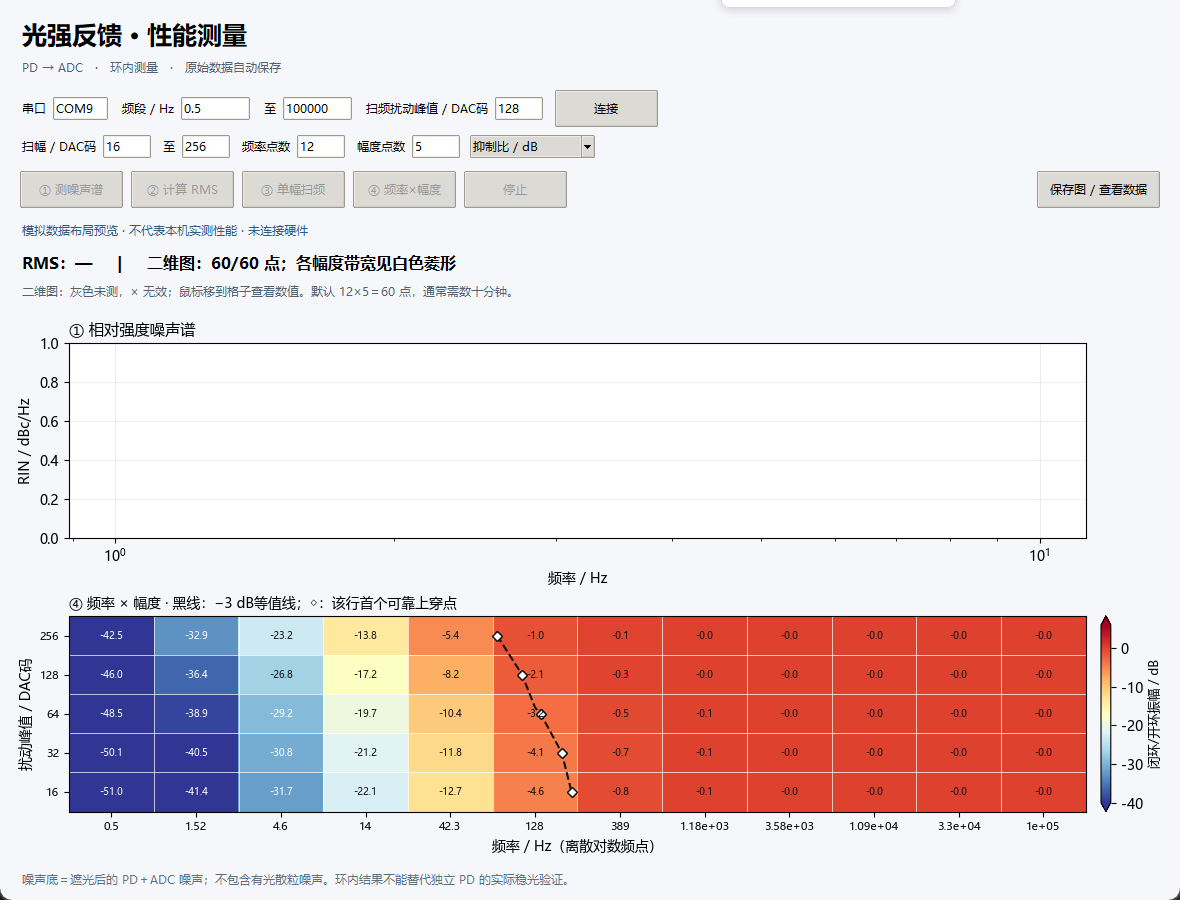
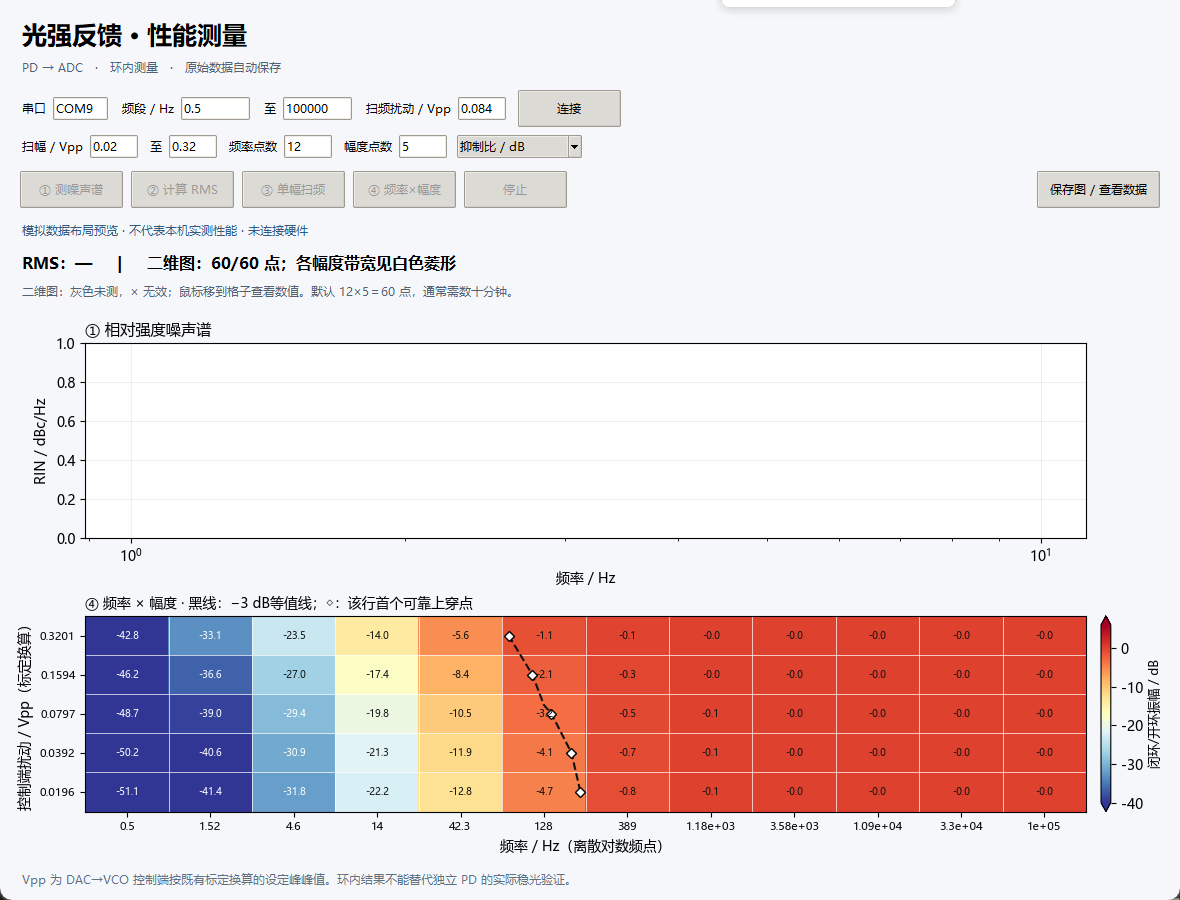
Use calibrated control-voltage Vpp throughout sweep and heatmap UI

diff --git a/pid_performance/host/performance/app.py b/pid_performance/host/performance/app.py
@@ -16,6 +16,7 @@ sys.path.insert(0,str(BASE.parent/'vendor'))
 from device import Device
 from measurement import Measurement
 from heatmap import draw_map
+from voltage import vpp_to_codes,codes_to_vpp
 
 matplotlib.rcParams['font.sans-serif']=['Microsoft YaHei','SimHei','DejaVu Sans']
 matplotlib.rcParams['axes.unicode_minus']=False
@@ -55,15 +56,15 @@ class App:
         ttk.Label(top,text='光强反馈 · 性能测量',font=('Microsoft YaHei',19,'bold')).pack(anchor='w')
         ttk.Label(top,text='PD → ADC   ·   环内测量   ·   原始数据自动保存',foreground='#526174').pack(anchor='w',pady=(4,12))
         row=ttk.Frame(top);row.pack(fill='x')
-        self.port=tk.StringVar(value='COM9');self.low=tk.StringVar(value='0.5');self.high=tk.StringVar(value='100000');self.amp=tk.StringVar(value='128')
-        for label,var,width in [('串口',self.port,7),('频段 / Hz',self.low,9),('至',self.high,9),('扫频扰动峰值 / DAC码',self.amp,6)]:
+        self.port=tk.StringVar(value='COM9');self.low=tk.StringVar(value='0.5');self.high=tk.StringVar(value='100000');self.amp=tk.StringVar(value='0.084')
+        for label,var,width in [('串口',self.port,7),('频段 / Hz',self.low,9),('至',self.high,9),('扫频扰动 / Vpp',self.amp,6)]:
             ttk.Label(row,text=label).pack(side='left',padx=(0,5))
             ttk.Entry(row,textvariable=var,width=width).pack(side='left',padx=(0,12))
         self.connect=ttk.Button(row,text='连接',command=self.connect_device);self.connect.pack(side='left')
         gridrow=ttk.Frame(top);gridrow.pack(fill='x',pady=(8,0))
-        self.amp_low=tk.StringVar(value='16');self.amp_high=tk.StringVar(value='256')
+        self.amp_low=tk.StringVar(value='0.02');self.amp_high=tk.StringVar(value='0.32')
         self.freq_points=tk.StringVar(value='12');self.amp_points=tk.StringVar(value='5')
-        for label,var in [('扫幅 / DAC码',self.amp_low),('至',self.amp_high),('频率点数',self.freq_points),('幅度点数',self.amp_points)]:
+        for label,var in [('扫幅 / Vpp',self.amp_low),('至',self.amp_high),('频率点数',self.freq_points),('幅度点数',self.amp_points)]:
             ttk.Label(gridrow,text=label).pack(side='left',padx=(0,5))
             ttk.Entry(gridrow,textvariable=var,width=6).pack(side='left',padx=(0,10))
         self.map_metric=tk.StringVar(value='抑制比 / dB')
@@ -87,7 +88,7 @@ class App:
         self.canvas.get_tk_widget().pack(fill='both',expand=True,padx=14)
         self.canvas.widget.bind('<Motion>',self.hover_grid)
         self.reset_axes()
-        ttk.Label(root,text='噪声底＝遮光后的 PD＋ADC 噪声；不包含有光散粒噪声。环内结果不能替代独立 PD 的实际稳光验证。',
+        ttk.Label(root,text='Vpp 为 DAC→VCO 控制端按既有标定换算的设定峰峰值。环内结果不能替代独立 PD 的实际稳光验证。',
                   padding=(20,10),foreground='#607080').pack(fill='x')
         self.rms_text='RMS：—';self.bw_text='3 dB 噪声抑制带宽：—'
         root.protocol('WM_DELETE_WINDOW',self.close);root.after(100,self.poll)
@@ -163,7 +164,7 @@ class App:
         except Exception as e:messagebox.showerror('RMS',str(e))
 
     def sweep(self):
-        try:low,high=self.settings();amp=int(self.amp.get());points=int(self.freq_points.get())
+        try:low,high=self.settings();amp=vpp_to_codes(self.amp.get());points=int(self.freq_points.get())
         except Exception as e:messagebox.showerror('扫频设置',str(e));return
         def work():
             self.measure.sweep(low,high,amp,points)
@@ -173,7 +174,7 @@ class App:
     def grid(self):
         try:
             low,high=self.settings(True)
-            amin,amax=int(self.amp_low.get()),int(self.amp_high.get())
+            amin,amax=vpp_to_codes(self.amp_low.get()),vpp_to_codes(self.amp_high.get())
             nf,na=int(self.freq_points.get()),int(self.amp_points.get())
         except Exception as e:messagebox.showerror('二维扫描设置',str(e));return
         def work():
@@ -199,7 +200,7 @@ class App:
         d=self.map_data;nf=len(d['frequencies_Hz']);na=len(d['amplitudes_DAC_codes'])
         if not (-.5<x<nf-.5 and -.5<y<na-.5):return
         j,i=int(round(x)),int(round(y))
-        prefix=f"{d['frequencies_Hz'][j]:.4g} Hz · {d['amplitudes_DAC_codes'][i]} DAC码"
+        prefix=f"{d['frequencies_Hz'][j]:.4g} Hz · {codes_to_vpp(d['amplitudes_DAC_codes'][i]):.5g} Vpp"
         r=next((r for r in d['rows'] if r['amplitude_index']==i and r['frequency_index']==j),None)
         if r is None:self.cell_text.set(prefix+' · 未完成测量');return
         def fmt(value):return '未测/不可用' if value is None else f'{value:.4g}'

diff --git a/pid_performance/host/performance/measurement.py b/pid_performance/host/performance/measurement.py
@@ -1,5 +1,6 @@
 import csv,json,time
 from dataclasses import asdict
+from voltage import codes_to_vpp,CALIBRATION
 from pathlib import Path
 import numpy as np
 from analysis import spectrum,relative_density,band_rms,tone,rejection,crossing,cic_response
@@ -31,7 +32,7 @@ class Measurement:
         self.stage='';self.dark_preview=[];self.dark_mean=None
         self.folder.mkdir(parents=True,exist_ok=True)
         save_json(self.folder/'session.json',dict(registers=dev.snapshot,raw_sample_rate_Hz=dev.raw_fs,
-            detector='in-loop feedback ADC',created=time.strftime('%Y-%m-%dT%H:%M:%S%z'),
+            voltage_calibration=CALIBRATION,detector='in-loop feedback ADC',created=time.strftime('%Y-%m-%dT%H:%M:%S%z'),
             noise_floor='dark PD + ADC; excludes illuminated shot noise',
             spectral_method='one-sided Welch, Hann, 2048 samples, 50% overlap, per-segment DC removal',
             decimator='CIC3; passband correction; retained frequencies <= output_fs/10',
@@ -159,7 +160,7 @@ class Measurement:
             value=rejection(ta,tb)
             # Drift relative to optical DC uses dark estimate when available;
             # otherwise report code means for review instead of guessing offset.
-            row=dict(frequency_Hz=freq,requested_Hz=float(requested),amplitude_DAC_codes=amp,
+            row=dict(frequency_Hz=freq,requested_Hz=float(requested),amplitude_DAC_codes=amp,amplitude_Vpp=codes_to_vpp(amp),
                 open_amplitude_ADC_codes=ta['amplitude'],closed_amplitude_ADC_codes=tb['amplitude'],
                 open_mean_ADC_codes=ta['mean'],closed_mean_ADC_codes=tb['mean'],
                 open_sigma=ta['sigma'],closed_sigma=tb['sigma'],**value)
@@ -191,13 +192,14 @@ class Measurement:
         if not (0<low<=high<=self.dev.raw_fs/20) or (freq_points==1)!=(low==high):
             raise ValueError('单频扫幅请将频率上下限设为相同值、频率点数设为 1')
         if not (1<=amp_low<=amp_high<=16383) or (amp_points==1)!=(amp_low==amp_high):
-            raise ValueError('幅度范围为 1–16383；单幅时上下限相同、幅度点数为 1')
+            raise ValueError('扰动电压范围无效；单幅时上下限相同、幅度点数为 1')
         amps=np.unique(np.rint(np.geomspace(amp_low,amp_high,amp_points)).astype(int))
-        if len(amps)!=amp_points:raise ValueError('幅度范围太窄，取整后频点重复，请减少幅度点数')
+        if len(amps)!=amp_points:raise ValueError('幅度范围小于电压分辨率，取整后重复，请减少幅度点数')
         frequencies=np.geomspace(low,high,freq_points)
         parent=self.folder;notify=self.notify
         folder=parent/('grid_'+str(time.time_ns()));folder.mkdir()
         data=dict(frequencies_Hz=frequencies.tolist(),amplitudes_DAC_codes=amps.tolist(),
+                  amplitudes_Vpp=[codes_to_vpp(a) for a in amps],voltage_calibration=CALIBRATION,
                   rows=[],bandwidths_Hz=[None]*len(amps),status='running',run_directory=folder.name,
                   dark_mean_ADC_codes=self.dark_mean,
                   definition='20 log10(closed/open fundamental amplitude); percent = peak tone / dark-subtracted DC',
@@ -223,7 +225,7 @@ class Measurement:
                                               for i,r in enumerate(payload['rows'])]
                         data['bandwidths_Hz'][ai]=payload['bandwidth_Hz'];flush()
                     elif kind=='status':
-                        notify(kind,f'二维扫描 {len(completed)+row_count+1}/{len(amps)*freq_points} · {int(amp)} DAC码 · '+payload)
+                        notify(kind,f'二维扫描 {len(completed)+row_count+1}/{len(amps)*freq_points} · {codes_to_vpp(amp):.5g} Vpp · '+payload)
                     else:notify(kind,payload)
                 self.notify=relay
                 self.sweep(low,high,int(amp),freq_points)

diff --git a/pid_performance/host/performance/heatmap.py b/pid_performance/host/performance/heatmap.py
@@ -1,5 +1,6 @@
 """Discrete measured-cell plot. Missing values never interpolated into colors."""
 import numpy as np
+from voltage import codes_to_vpp
 from matplotlib.colors import Normalize,LogNorm
 
 
@@ -45,10 +46,10 @@ def draw_map(fig,ax,data,percent=False):
         c=data['interrupted_cell'];ax.text(c['frequency_index'],c['amplitude_index'],'×',ha='center',va='center')
     stride=max(1,int(np.ceil(nf/16)));ticks=list(range(0,nf,stride))
     ax.set_xticks(ticks,[f'{f[i]:.3g}' for i in ticks],fontsize=8)
-    ax.set_yticks(range(na),[str(a) for a in data['amplitudes_DAC_codes']],fontsize=8)
+    ax.set_yticks(range(na),[f'{codes_to_vpp(a):.4g}' for a in data['amplitudes_DAC_codes']],fontsize=8)
     ax.set_xticks(np.arange(-.5,nf,1),minor=True);ax.set_yticks(np.arange(-.5,na,1),minor=True)
     ax.grid(which='minor',color='white',linewidth=.5);ax.tick_params(which='minor',length=0)
-    ax.set_xlabel('频率 / Hz（离散对数频点）');ax.set_ylabel('扰动峰值 / DAC码')
+    ax.set_xlabel('频率 / Hz（离散对数频点）');ax.set_ylabel('控制端扰动 / Vpp（标定换算）')
     label='闭环残余基频峰值 / %' if percent else '闭环/开环振幅 / dB'
     ax.set_title('④ 频率 × 幅度 · 黑线：−3 dB等值线；◇：该行首个可靠上穿点',loc='left',fontsize=10)
     if percent and not np.isfinite(values).any():

diff --git a/pid_performance/host/performance/voltage.py b/pid_performance/host/performance/voltage.py
@@ -1,0 +1,21 @@
+"""DAC control-port nominal sine Vpp from the existing 2026-10-22 DC calibration."""
+import math
+
+VOLTS_PER_CODE=0.0006533
+CALIBRATION=dict(volts_per_code=VOLTS_PER_CODE,zero_code=8198,date='2026-10-22',
+    source='soyotoanon/20261022-vco-mapping-verification README: two-point DMM DC calibration',
+    node='DAC output / VCO analog control input',
+    meaning='nominal set Vpp from DC calibration, not an AC voltage measurement; includes integer-code rounding')
+
+
+def codes_to_vpp(peak_codes):
+    return 2*VOLTS_PER_CODE*int(peak_codes)
+
+
+def vpp_to_codes(vpp):
+    value=float(vpp)
+    if not math.isfinite(value) or not VOLTS_PER_CODE<=value<=codes_to_vpp(16383):
+        raise ValueError('扰动 Vpp 超出可设置范围')
+    code=int(math.floor(value/(2*VOLTS_PER_CODE)+.5))
+    if not 1<=code<=16383:raise ValueError('扰动小于电压分辨率')
+    return code

diff --git a/pid_performance/host/performance/test_voltage.py b/pid_performance/host/performance/test_voltage.py
@@ -1,0 +1,16 @@
+import unittest
+from voltage import vpp_to_codes,codes_to_vpp
+
+
+class VoltageTests(unittest.TestCase):
+    def test_peak_to_peak_and_integer_rounding(self):
+        self.assertAlmostEqual(codes_to_vpp(64),.0836224)
+        self.assertEqual(vpp_to_codes(.084),64)
+        for vpp in [.02,.04,.08,.16,.32]:
+            self.assertLessEqual(abs(codes_to_vpp(vpp_to_codes(vpp))-vpp),.0006533)
+
+    def test_invalid_values_do_not_create_an_injection(self):
+        for value in [0,-1,float('nan'),float('inf'),30,.00001]:
+            with self.assertRaises(ValueError):vpp_to_codes(value)
+
+if __name__=='__main__':unittest.main()

diff --git a/pid_performance/host/performance/test_grid.py b/pid_performance/host/performance/test_grid.py
@@ -14,6 +14,8 @@ class GridTests(unittest.TestCase):
             m.dark_mean=8192
             d=m.grid(20,1000,32,64,4,2)
             self.assertEqual(d['status'],'complete');self.assertEqual(len(d['rows']),8)
+            self.assertEqual(d['amplitudes_Vpp'],[.0418112,.0836224])
+            self.assertAlmostEqual(d['rows'][0]['amplitude_Vpp'],.0418112)
             self.assertTrue(all(b is not None for b in d['bandwidths_Hz']))
             db,pct=matrices(d);self.assertEqual(db.shape,(2,4))
             self.assertTrue(np.isfinite(pct).all())

diff --git a/pid_performance/README.md b/pid_performance/README.md
@@ -9,22 +9,28 @@
 1. 在当前光强下使闭环稳定。点击「连接」。目标和增益仍可通过原 UART 寄存器在线修改，不需要重新烧录。
 2. 「① 测噪声谱」：先按提示遮住 PD 入光，测暗场噪声底，再恢复入光。程序在保持当前输出的开环与正常闭环之间切换，逐段更新三条噪声谱。不要切断 PD 电源或拔线来代替遮光。
 3. 「② 计算 RMS」：对输入频段内的单边 RIN 积分，显示开闭环相对 RMS。默认 0.5 Hz–100 kHz；论文必须同时注明积分频段。
-4. 「③ 测抑制带宽」：默认 10 个对数频点。在 PI 输出之后、最终限幅之前加同样的正弦扰动，分别测开闭环响应振幅，实时更新比值。默认振幅 128 DAC 码。若转折落在两个相距较远的频点之间，缩小频率范围重测；粗扫插值不能当作精密带宽。
+4. 「③ 单幅扫频」：默认 12 个对数频点。在 PI 输出之后、最终限幅之前加同样的正弦扰动，分别测开闭环响应振幅，实时更新比值。默认扰动 0.084 Vpp。若转折落在两个相距较远的频点之间，缩小频率范围重测；粗扫插值不能当作精密带宽。
 5. 原始记录、参数和 CSV/JSON 自动保存在 `measurements/日期时间/`；「保存图 / 查看数据」另存 PNG、PDF 并打开目录。每次重新测量会追加原始记录并更新本次汇总 CSV；要保留独立汇总，请重新打开界面建立新会话。
 
 暗场阶段每读完一段即显示 ADC码²/Hz 的噪声谱；这时尚未获得配对的带光均值，因此不标成 RIN。采集时显示倒计时和段数，期间保持完全遮光，直到「恢复光照」提示。暗场记录出现明显跳变或各段均值相差超过 10 ADC 码会停止计算，原始数据仍保存。这是异常筛查，不能代替确认 PD 确实完全遮光。
 
-「扫频扰动峰值 / DAC码」只影响第③步，128 表示在当前输出上叠加约 ±128 码的正弦，峰峰值约 256 码，不表示光强变化 128%。选幅度时先用 64 码（本工作点的 20 Hz 已可靠检出），再用 32 码重复同一频点或频段；只要都能分辨且抑制比在测量不确定度内一致，就有小信号线性的证据。过小而不可检出时才逐步增加；出现限幅、波形失真或抑制比随幅度改变，则不能将其混成一个与幅度无关的带宽。实际相对光强扰动应由开环正弦 ADC 振幅除以扣除暗场后的平均 ADC 信号计算。
+「扫频扰动 / Vpp」用于第③步的单幅扫频，表示 DAC 输出到 VCO 模拟控制端的正弦峰峰值。选幅度时可先用约 0.084 Vpp，再用约 0.042 Vpp 重复同一频段；只要都能分辨且抑制比在测量不确定度内一致，就有小信号线性的证据。过小而不可检出时才逐步增加；出现限幅或抑制比随幅度改变，则不能将其混成一个与幅度无关的带宽。实际相对光强扰动由开环正弦 ADC 振幅除以扣除暗场后的平均 ADC 信号计算。
 
 采集在 FPGA 中定时完成，每段 8192 点；115200 串口只传输已经采好的缓存。读回一段约需数十秒，低频采集另需约 27 秒，完整多频段噪声测量需要数分钟。实时显示是逐段/逐频点更新，不是连续视频式刷新。
 
+## 扰动电压换算
+
+界面输入、热图纵轴、悬停提示统一使用 Vpp；内部码值只保留在原始数据中用于复现。采用原仓库 2026-10-22 已记录的万用表直流两点标定：V=0.0006533×(code−8198)。正弦峰峰值换算为 Vpp=2×0.0006533×峰值码；64 码对应 0.0836224 Vpp。零点不影响峰峰值。输入值会取整为硬件可实现的设定，显示和 CSV 的 amplitude_Vpp 使用取整后的值，最小幅度步进约 0.0013066 Vpp。
+
+来源：[原仓库标定记录](https://github.com/soyotoanon/20261022-vco-mapping-verification/blob/102e8e9d3b896aec625270f646f107e312208e29/README.md)。这是基于既有直流标定的设定电压换算，尚未用示波器逐频率测量交流幅度，亦未补偿外部模拟链的频响；正弦数字量化还可能引入约一 LSB 的峰峰值差异。session.json 和 grid.json 保存标定来源、斜率和定义。
+
 ## 频率 × 扰动幅度热力图
 
-新增「④ 频率×幅度」：频率使用上面的上下限；新增扫幅上下限（DAC 正弦峰值码）、频率点数和幅度点数。默认 12×5＝60 点、幅度 16/32/64/128/256 码，逐幅度、逐频率测量。两轴按对数间隔选点，幅度取整数；每格分别采开环和闭环，因此通常需要数十分钟。可设置 1–64 个频点、1–16 个幅度；单频扫幅将频率上下限设成相同值并将频率点数设为 1。单幅扫描也可将幅度上下限设为相同值、幅度点数设为 1。③ 单幅扫频也使用新的频率点数设置。
+新增「④ 频率×幅度」：频率使用上面的上下限；新增扫幅上下限（控制端正弦 Vpp）、频率点数和幅度点数。默认 12×5＝60 点、幅度范围 0.02–0.32 Vpp，逐幅度、逐频率测量。两轴按对数间隔选点，程序自动量化到可输出的电压步进；每格分别采开环和闭环，因此通常需要数十分钟。可设置 1–64 个频点、1–16 个幅度；单频扫幅将频率上下限设成相同值并将频率点数设为 1。单幅扫描也可将幅度上下限设为相同值、幅度点数设为 1。③ 单幅扫频也使用新的频率点数设置。
 
 热力图是离散测量格子，不填充未测数据。默认颜色为 20log10(闭环基频振幅/开环基频振幅)，负值表示抑制，正值表示放大。灰格为未测或无可用结果，× 表示检出不足或故障中断点。鼠标移到格子显示数值；不超过 144 格时也在格内标数值。限幅、传输失败等会停止扫描，而不会给剩余格子填假数据。
 
-下拉框可切换为「残余基频 / %」：闭环正弦基频峰值除以扣除暗场后的闭环平均光信号，乘 100。这要求在同一会话先完成可靠的噪声测量，保持光路和 PD 增益不变；没有有效暗场就留空。它不是总噪声 RMS，也不包括所有高次谐波；正弦振幅已补偿 CIC 抽取通带衰减。鼠标提示还会显示开环实际相对调制幅度。纵轴始终是实际施加的 DAC 峰值码，不能当作预设的光强百分比。
+下拉框可切换为「残余基频 / %」：闭环正弦基频峰值除以扣除暗场后的闭环平均光信号，乘 100。这要求在同一会话先完成可靠的噪声测量，保持光路和 PD 增益不变；没有有效暗场就留空。它不是总噪声 RMS，也不包括所有高次谐波；正弦振幅已补偿 CIC 抽取通带衰减。鼠标提示还会显示开环实际相对调制幅度。纵轴为按既有标定换算的控制端设定 Vpp，不能当作光强百分比或 VCO 射频输出的 Vpp。
 
 黑线是基于相邻有效格子插值的 −3 dB 等值线，两种颜色模式都使用同一条抑制比边界。白色菱形是该幅度行从低频开始首次可靠向上穿过 −3 dB 的频率；没有可靠交点则不输出带宽。边界可能不唯一、有闭合区域，也可能在测量范围内完全不存在。在小信号范围，各行交点应近似一致；幅度相关非线性下应报告各幅度条件下的边界，不把它们压成一个唯一的线性带宽。−3 dB 表示振幅比约 0.708，不表示残余波动小于 3% 或 1%。
 

diff --git a/pid_performance/validation/README.md b/pid_performance/validation/README.md
@@ -33,3 +33,7 @@
 ## 频率与幅度二维扫描
 
 新增二维扫描、离散热图、抑制比/残余基频百分比切换、−3 dB 等值线、逐幅度带宽、鼠标格子读数和逐点保存。10 项 Python 测试通过，包含多幅度与逐点保存、注入传输异常后的部分结果保留和恢复反馈、单频扫幅。真实 Tk 窗口以明确标记的模拟数据检查完整布局、颜色模式切换和单频绘图，GRID_UI_DB_PERCENT_FIXED_FREQUENCY_RENDER_PASS。grid_ui_preview_simulated.png 是模拟布局预览，不是实际测量。新增二维扫描尚未在光路上跑完整网格；复用了先前已验证的单点注入/采集协议，未重新烧录 FPGA，也未中断用户正在运行的界面。
+
+## Vpp 用户界面
+
+按用户要求将扰动输入、幅度轴和悬停提示改为控制端 Vpp，采用原仓库记录的 0.0006533 V/码直流两点标定。12 项测试通过，包括峰值/峰峰值因子、量化误差边界、无效电压拒绝、二维 CSV/JSON 电压字段。原生窗口重新检查通过。Vpp 是标定换算的设定值，未进行逐频率交流电压实测。
